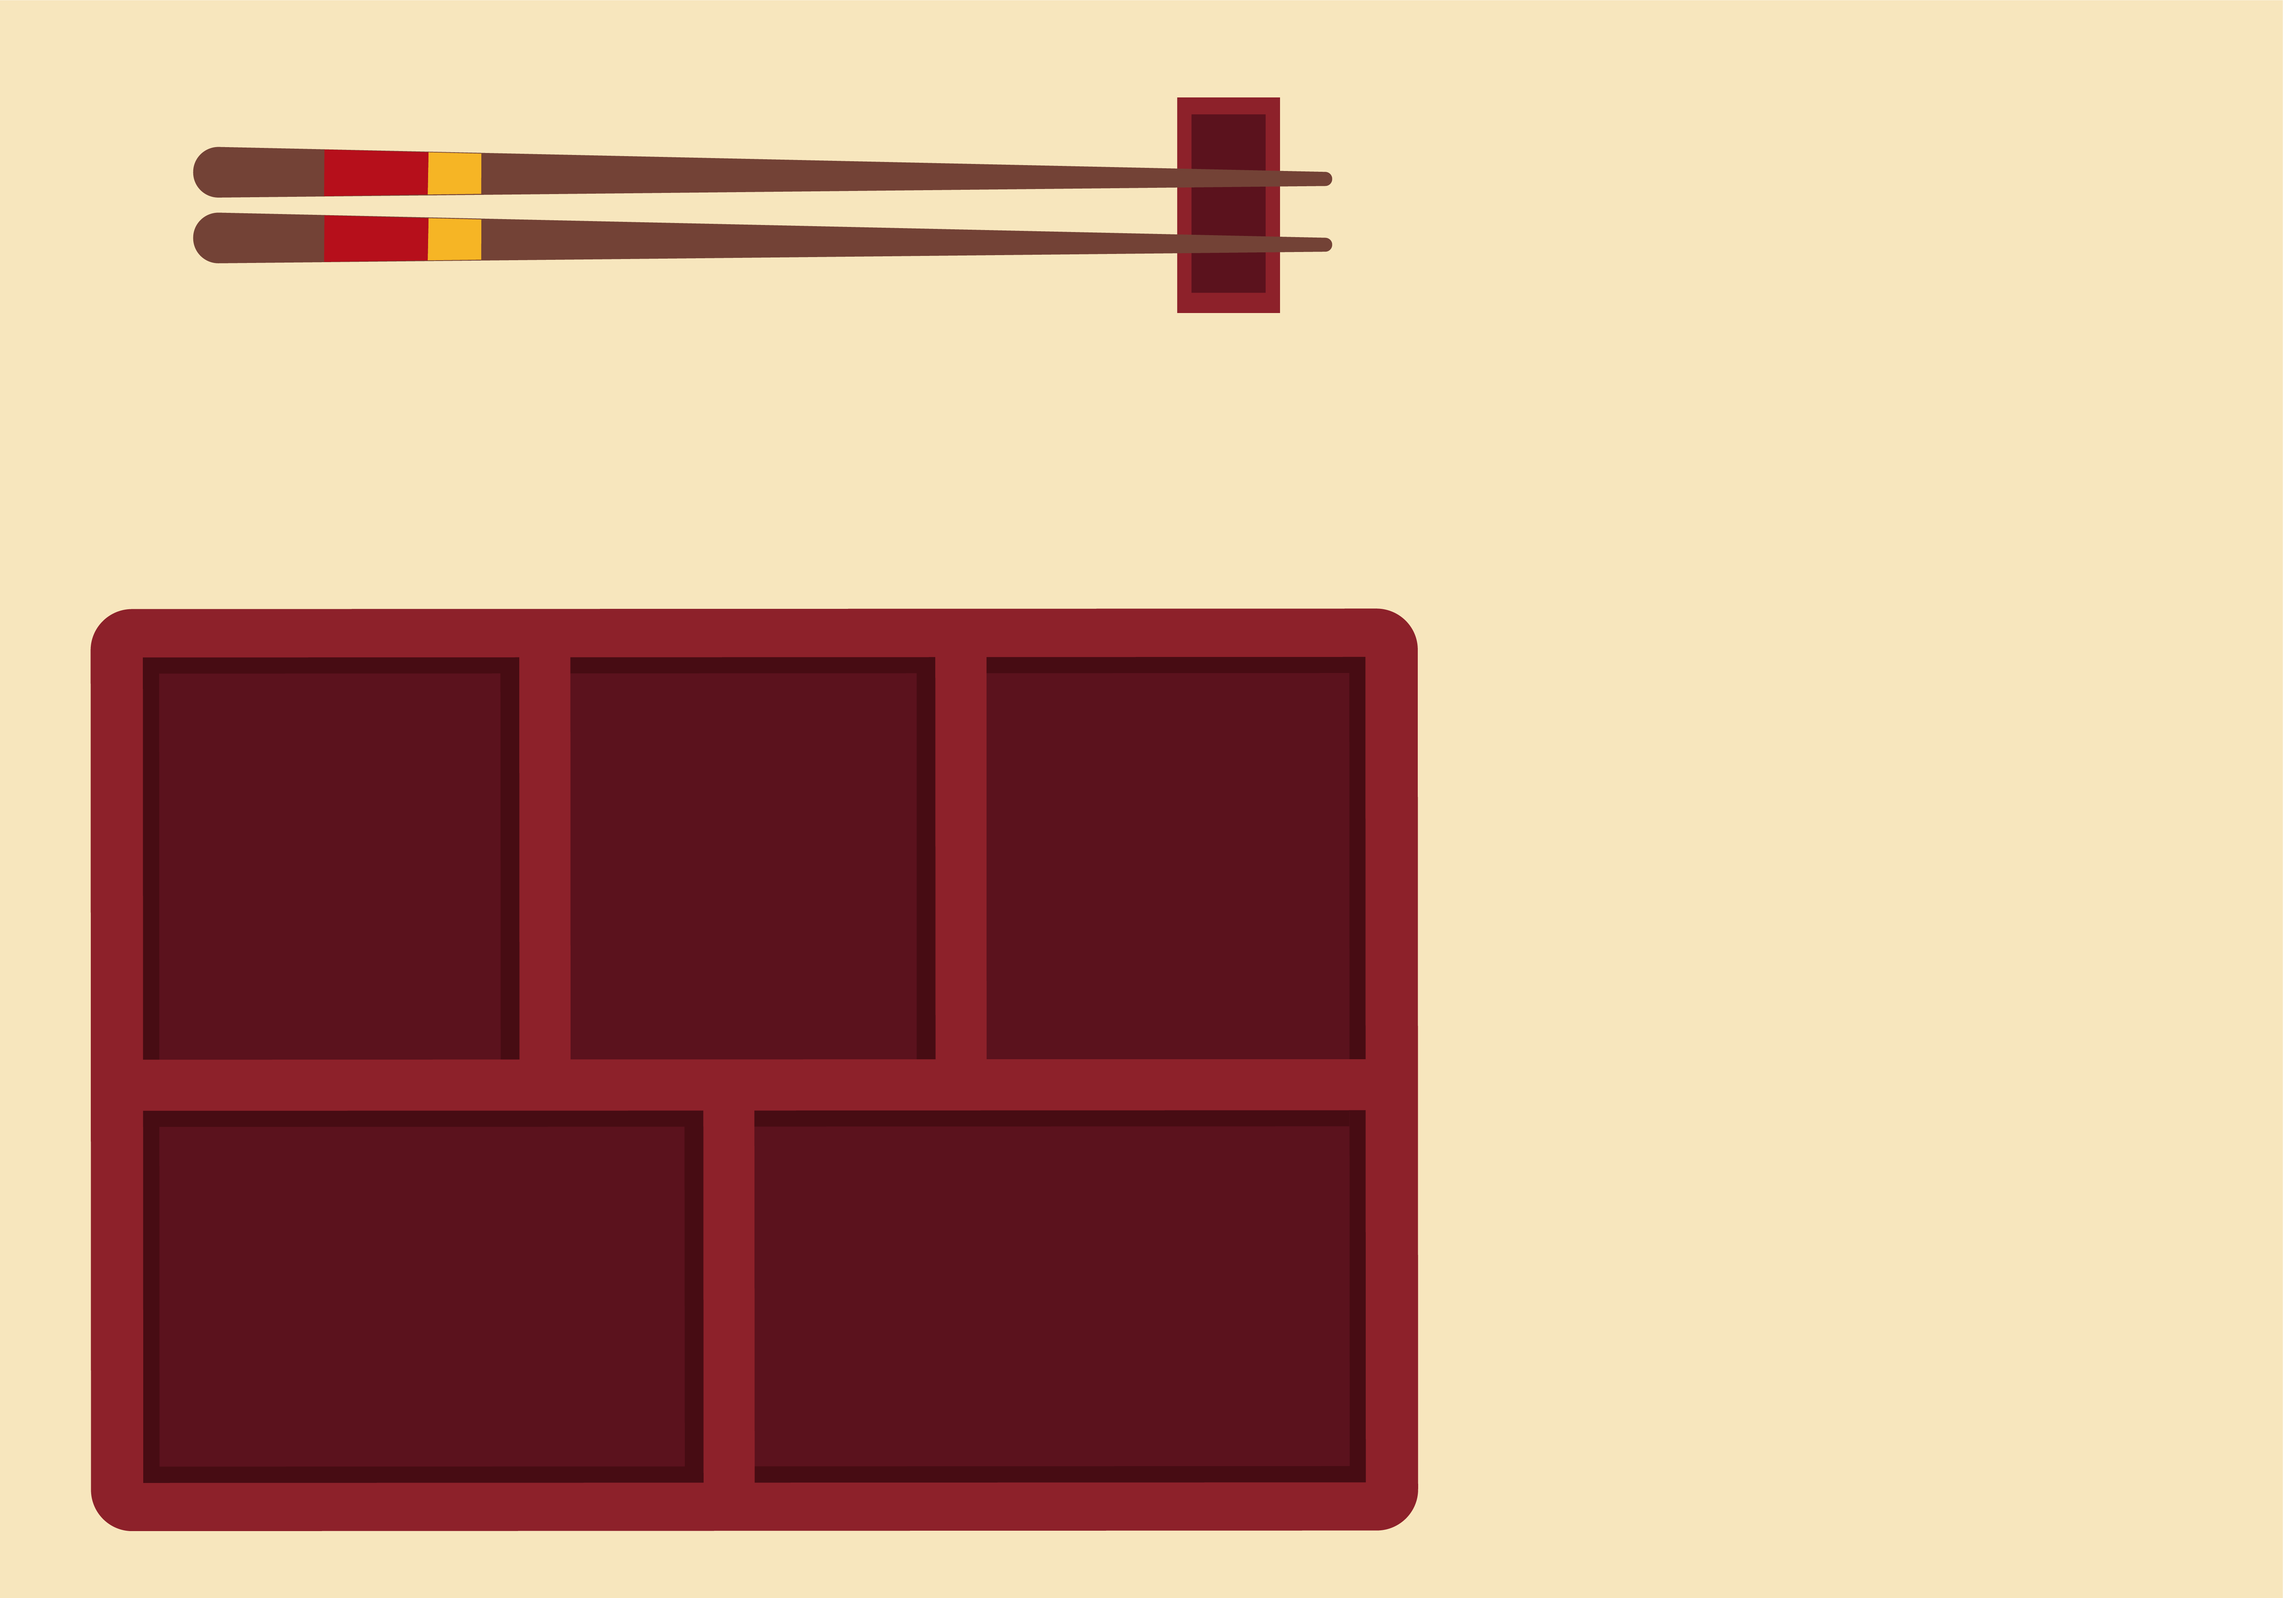
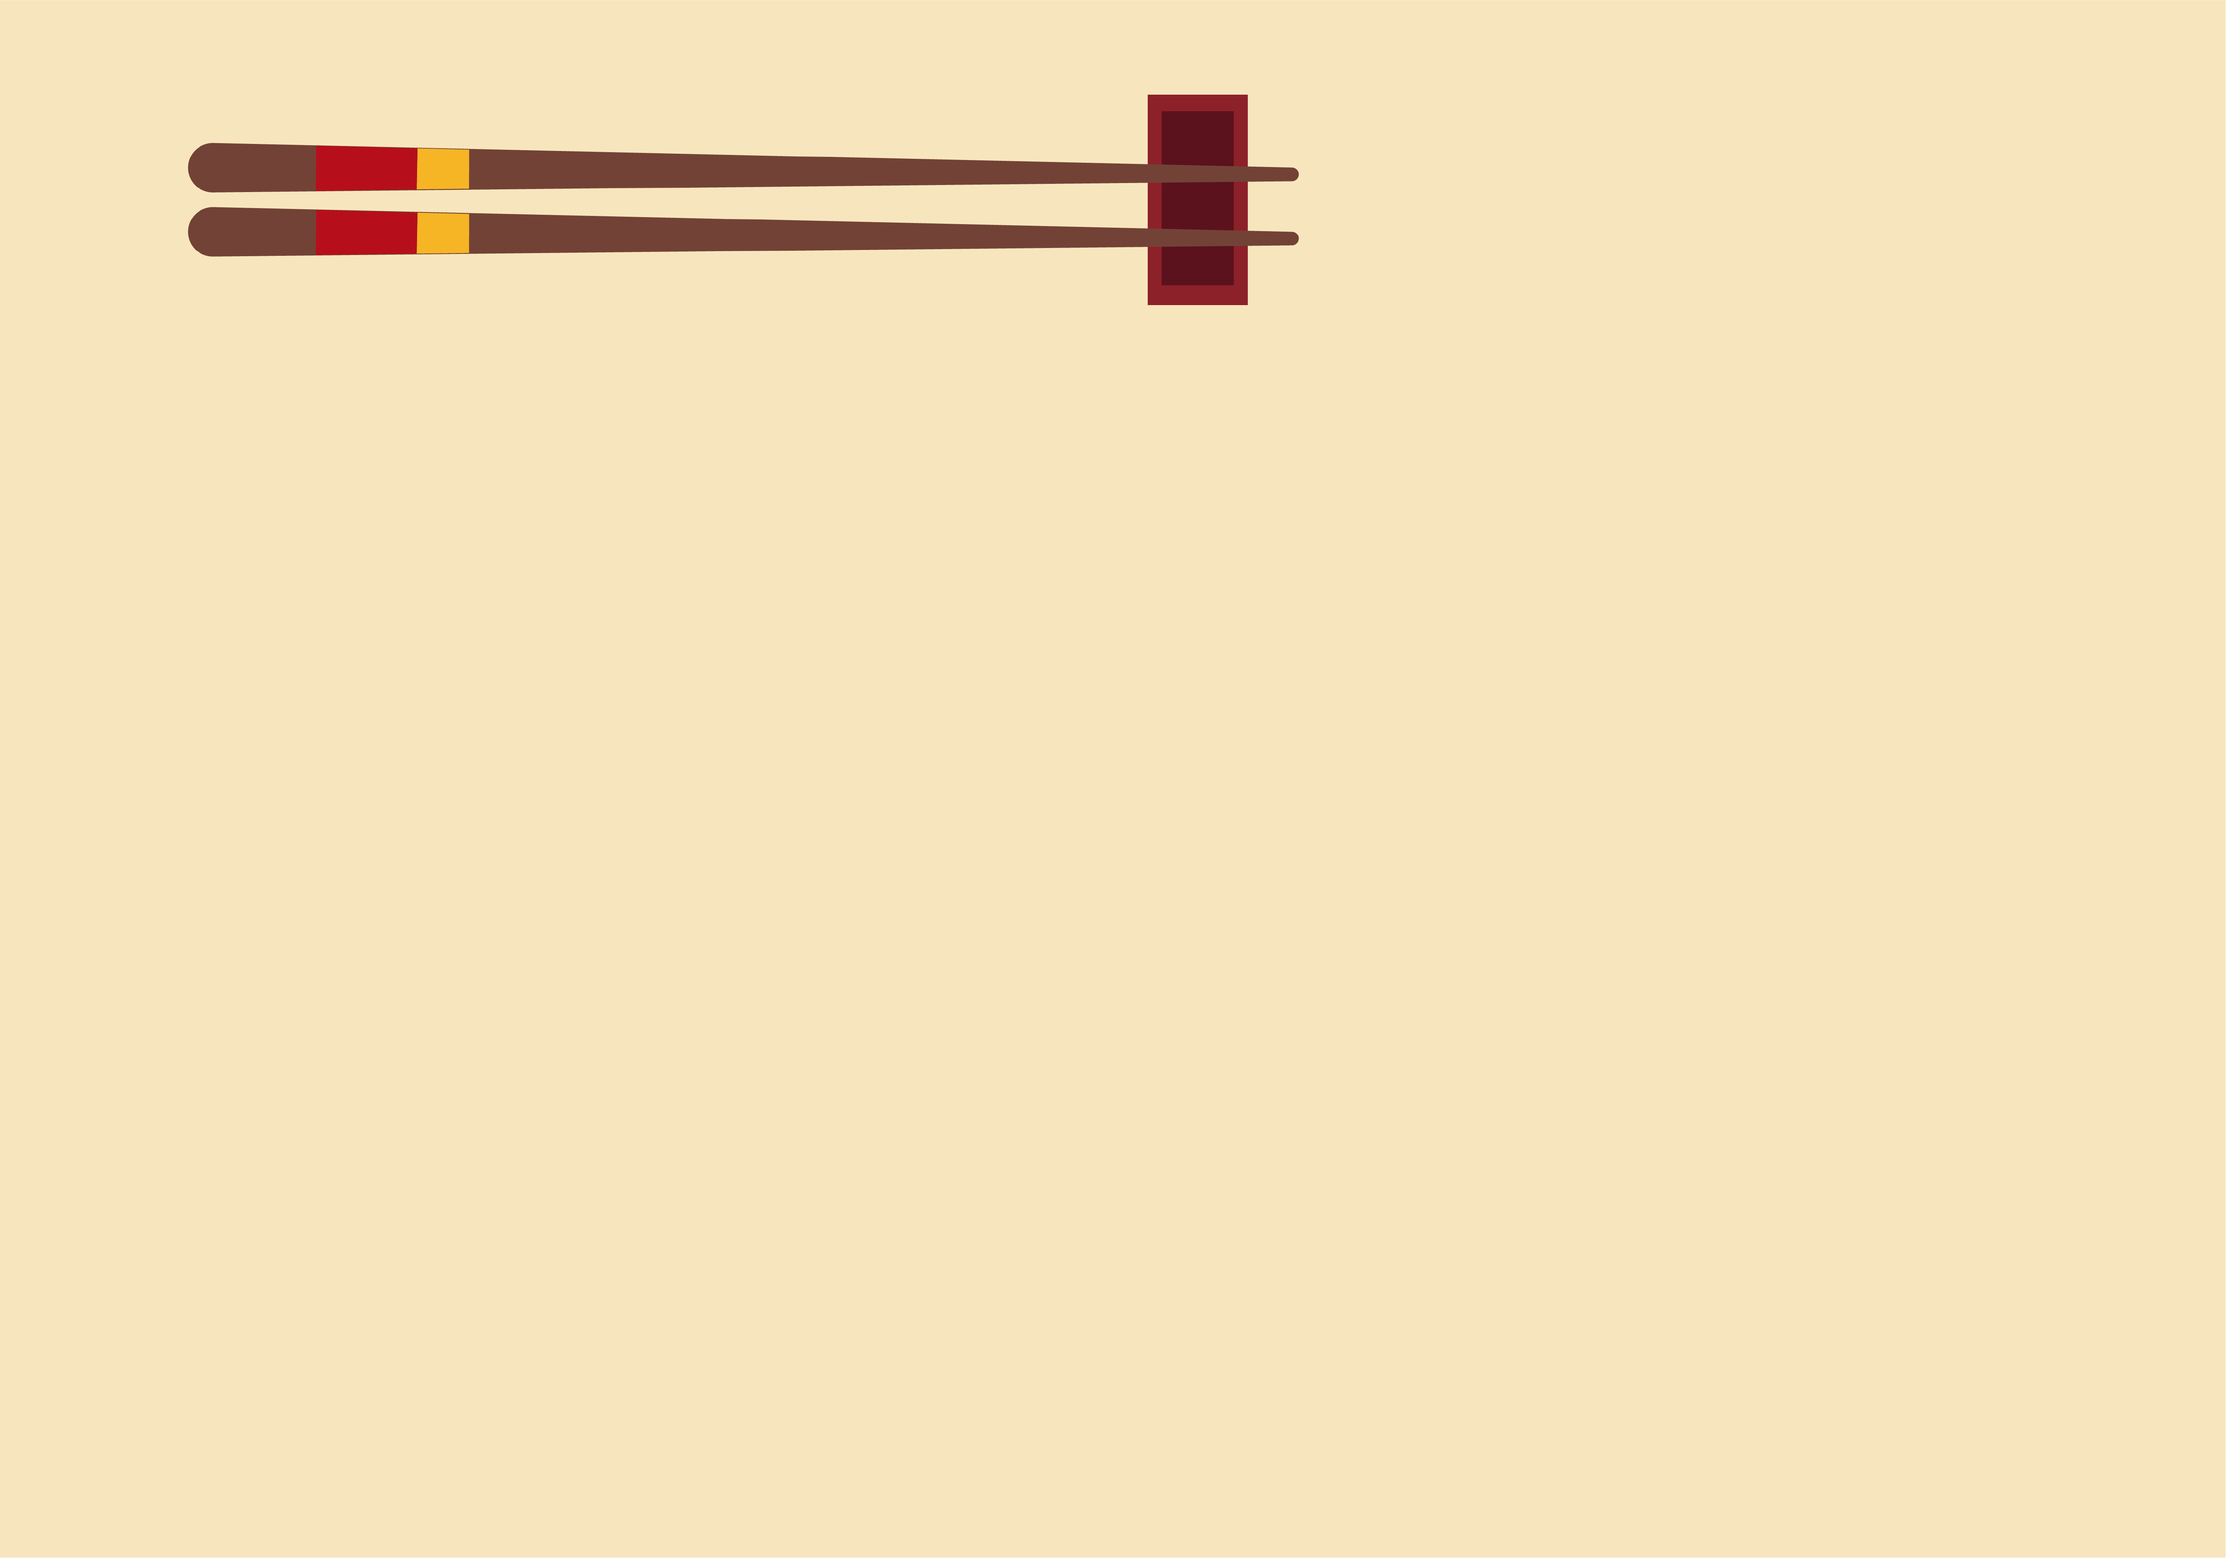
Add drop logic

diff --git a/index.html b/index.html
@@ -18,49 +18,60 @@
       <h2>Happy Buddha Menu</h2>
       <div class="menu-container">
         <div>
-          <img src="./assets/rice-ball.png" alt="rice-ball">
+          <img src="./assets/rice-ball.png" alt="rice-ball" id="rice-ball">
           <p>Rice Ball: 2.00 €</p>
         </div>
         <div>
-          <img src="./assets/prawn.png" alt="prawns">
+          <img src="./assets/prawn.png" alt="prawns" id="prawns">
           <p>Fried Prawns (2 pieces): 3.00 €</p>
         </div>
         <div>
-          <img src="./assets/salad.png" alt="salad">
+          <img src="./assets/salad.png" alt="salad" id="salad">
           <p>Salad: 1.00 €</p>
         </div>
         <div>
-          <img src="./assets/salmon.png" alt="sashimi-salmon">
+          <img src="./assets/salmon.png" alt="sashimi-salmon" id="salmon">
           <p>Sashimi Salmon (1 piece): 1.50 €</p>
         </div>
         <div>
-          <img src="./assets/tuna-nigiri.png" alt="tuna-nigiri">
+          <img src="./assets/tuna-nigiri.png" alt="tuna-nigiri" id="tuna-nigiri">
           <p>Tuna Nigiri (1 piece): 1.80 €</p>
         </div>
         <div>
-          <img src="./assets/tamago.png" alt="egg-nigiri">
+          <img src="./assets/tamago.png" alt="egg-nigiri" id="egg-nigiri">
           <p>Egg Nigiri (1 piece): 1.00 €</p>
         </div>
         <div>
-          <img src="./assets/prawn-nigiri.png" alt="prown-nigiri">
+          <img src="./assets/prawn-nigiri.png" alt="prown-nigiri" id="prawn-nigiri">
           <p>Prawn Nigiri (1 piece): 1.80 €</p>
         </div>
         <div>
-          <img src="./assets/salmon-nigiri.png" alt="salmon-nigiri">
+          <img src="./assets/salmon-nigiri.png" alt="salmon-nigiri" id="salmon-nigiri">
           <p>Salmon Nigiri (1 piece): 1.80€ </p>
         </div>
         <div>
-          <img src="./assets/ramen.png" alt="ramen">
+          <img src="./assets/ramen.png" alt="ramen" id="ramen">
           <p>Ramen Bowl: 8.00 €</p>
         </div>
         <div>
-          <img src="./assets/complete-bowl.png" alt="complete-bowl">
+          <img src="./assets/complete-bowl.png" alt="complete-bowl" id="complete-bowl">
           <p>Complete bowl: 10.00 €</p>
         </div>
       </div>
     </div>
-    <div class="tray">
-      
+    <img src="./assets/empty-bento-box.png" alt="bento-box" id="bento-box">
+    <div class="tray" ondrop="drop(event)" ondragover="allowDrop(event)">
+      <div id="tray">
+        <div class="above-tray-container">
+          <div class="space-tray"></div>
+          <div class="space-tray"></div>
+          <div class="space-tray"></div>
+        </div>
+        <div class="below-tray-container">
+          <div class="space-tray"></div>
+          <div class="space-tray"></div>
+        </div>
+      </div>
     </div>
     <script src="js/main.js"></script>
   </section>

diff --git a/styles/styles.css b/styles/styles.css
@@ -17,22 +17,21 @@ article {
 }
 
 h1 {
-  font-size: 60px;
+  font-size: 40px;
 }
 
 h1 + p {
-  font-size: 30px;
+  font-size: 25px;
 }
 
 .container {
   display: grid;
-  grid-template-columns: 40% 60%;
+  grid-template-columns: 30% 80%;
 }
 
 .menu {
   text-align: center;
   background-color: rgb(254, 171, 143);
-  border: solid 2px black;
   border-radius: 20px;
   margin-bottom: 50px;
   padding: 20px 0;
@@ -49,5 +48,59 @@ h1 + p {
 }
 
 .menu-container > div > img {
-  height: 120px;
+  height: 50px;
+}
+
+#bento-box {
+  height: 640px;
+  margin-left: 5%;
+  z-index: -1;
+}
+
+.tray {
+  position: absolute;
+  margin-left: 32%;
+  height: 354px;
+  width: 500px;
+}
+
+#tray {
+  display: grid;
+  grid-template-rows: 50% 50%;
+  align-items: start;
+  height: 100%;
+  width: 100%;
+  margin: 40% 0 0 20%;
+}
+
+.above-tray-container {
+  display: grid;
+  grid-template-columns: 1fr 1fr 1fr;
+  align-items: center;
+  justify-items: center;
+  height: 100%;
+  width: 100%;
+}
+
+.below-tray-container {
+  display: grid;
+  grid-template-columns: 1fr 1fr;
+  align-items: center;
+  justify-items: center;
+  height: 100%;
+  width: 100%;
+}
+
+.space-tray {
+  display: flex;
+  align-items: center;
+  justify-content: center;
+  height: 100%;
+  width: 100%;
+  background-color: rgb(91, 18, 29);
+  border: rgb(141, 33, 42) solid 0.9rem;
+}
+
+.space-tray > img {
+  height: 100px;
 }

diff --git a/js/main.js b/js/main.js
@@ -1,0 +1,21 @@
+'use strict'
+
+var menuImages = document.querySelectorAll('.menu-container > div > img')
+menuImages.forEach(image => {
+  image.setAttribute("draggable", "true")
+  image.setAttribute("ondragstart", "drag(event)")
+})
+
+function drag(ev) {
+  ev.dataTransfer.setData("text", ev.target.id)
+}
+
+function drop(ev) {
+  ev.preventDefault()
+  const data = ev.dataTransfer.getData("text");
+  ev.target.appendChild(document.getElementById(data))
+}
+
+function allowDrop(ev) {
+  ev.preventDefault();
+}
